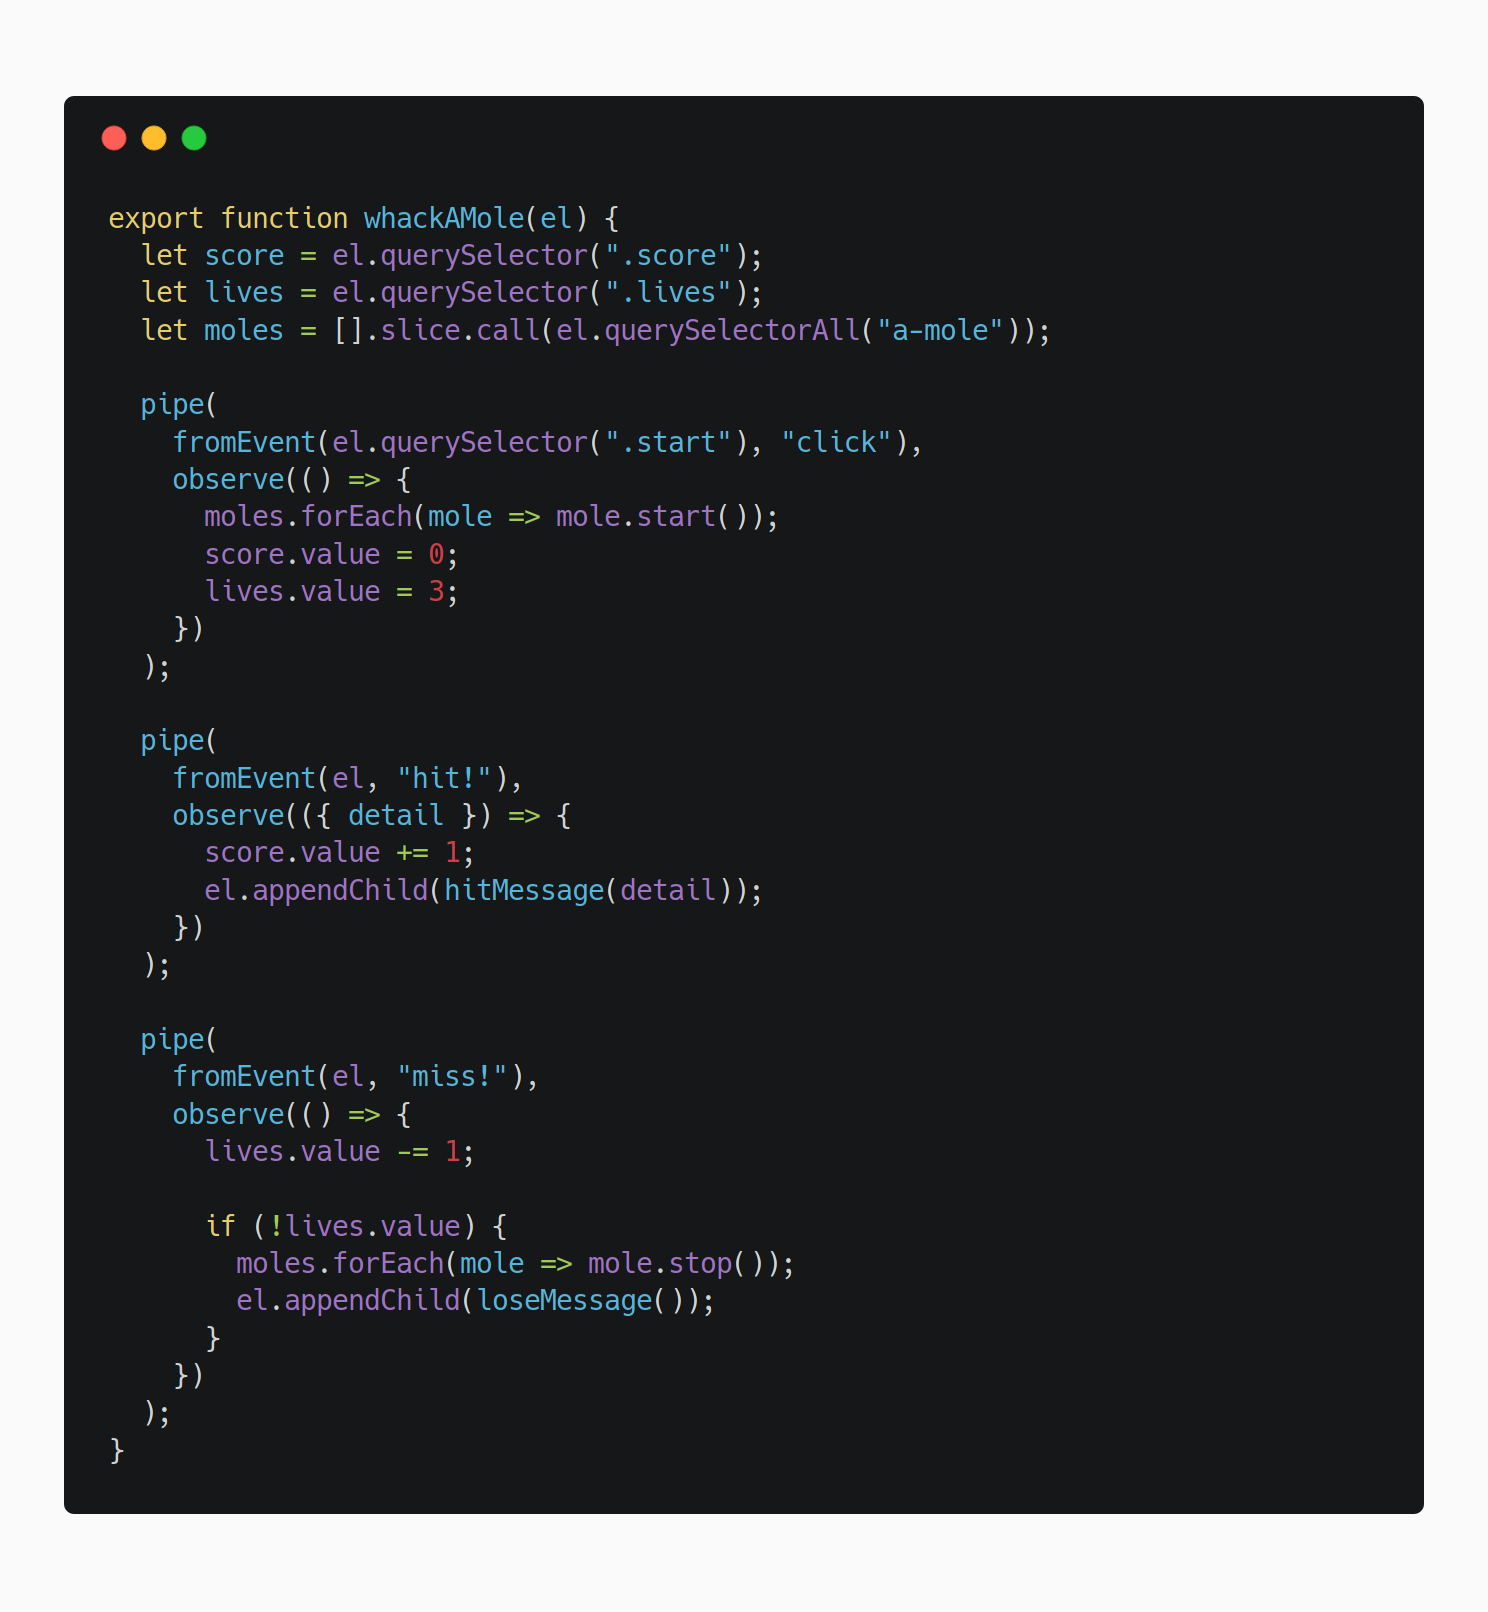
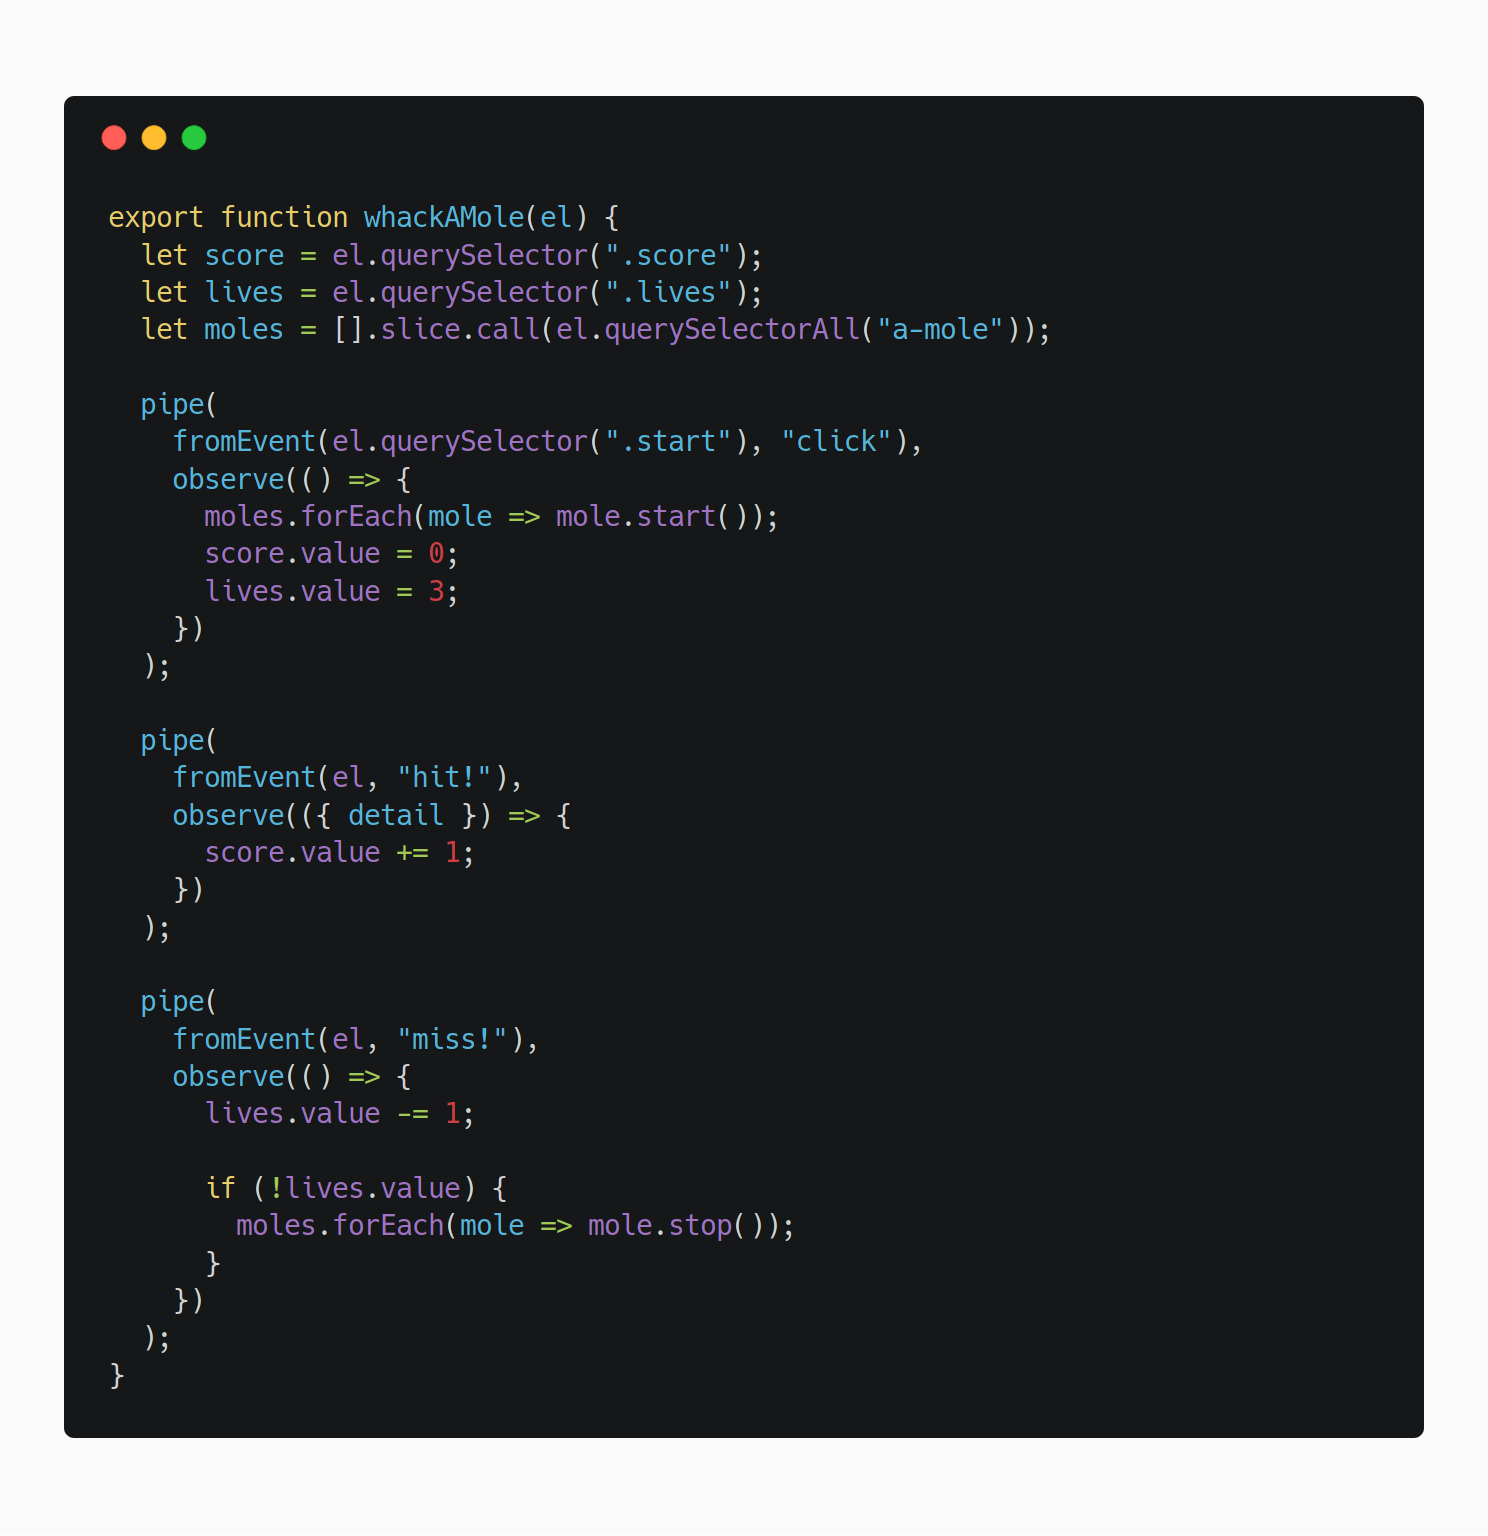
fixes

diff --git a/packages/slides/src/example/callbag-simple-whack.js b/packages/slides/src/example/callbag-simple-whack.js
@@ -1,22 +1,5 @@
 import { pipe, fromEvent, map, merge, combine } from "callbag-basics-esmodules";
 import observe from "callbag-observe";
-import { AnimatedMessage } from "./AnimatedMessage";
-
-let loseMessage = () =>
-  new AnimatedMessage({
-    message: "Looser!",
-    className: "lose-message",
-    duration: 3000
-  });
-
-let hitMessage = ({ x, y }) =>
-  new AnimatedMessage({
-    message: "Hit!",
-    className: "hit-message",
-    duration: 1000,
-    x,
-    y
-  });
 
 export function callbagWhack(el) {
   let score = el.querySelector(".score");
@@ -36,7 +19,6 @@ export function callbagWhack(el) {
     fromEvent(el, "hit!"),
     observe(({ detail }) => {
       score.value += 1;
-      el.appendChild(hitMessage(detail));
     })
   );
 
@@ -47,7 +29,6 @@ export function callbagWhack(el) {
 
       if (!lives.value) {
         moles.forEach(mole => mole.stop());
-        el.appendChild(loseMessage());
       }
     })
   );

diff --git a/packages/slides/index.html b/packages/slides/index.html
@@ -146,12 +146,6 @@
                 <h2>Measure, then optimize</h2>
             </x-slide>
             <x-slide>
-                <h2>Let's add some messages!</h2>
-            </x-slide>
-            <x-slide>
-                Componente con i messaggi
-            </x-slide>
-            <x-slide>
                 <h2>State transitions</h2>
                 <p>Let's use Callbag!</p>
             </x-slide>
